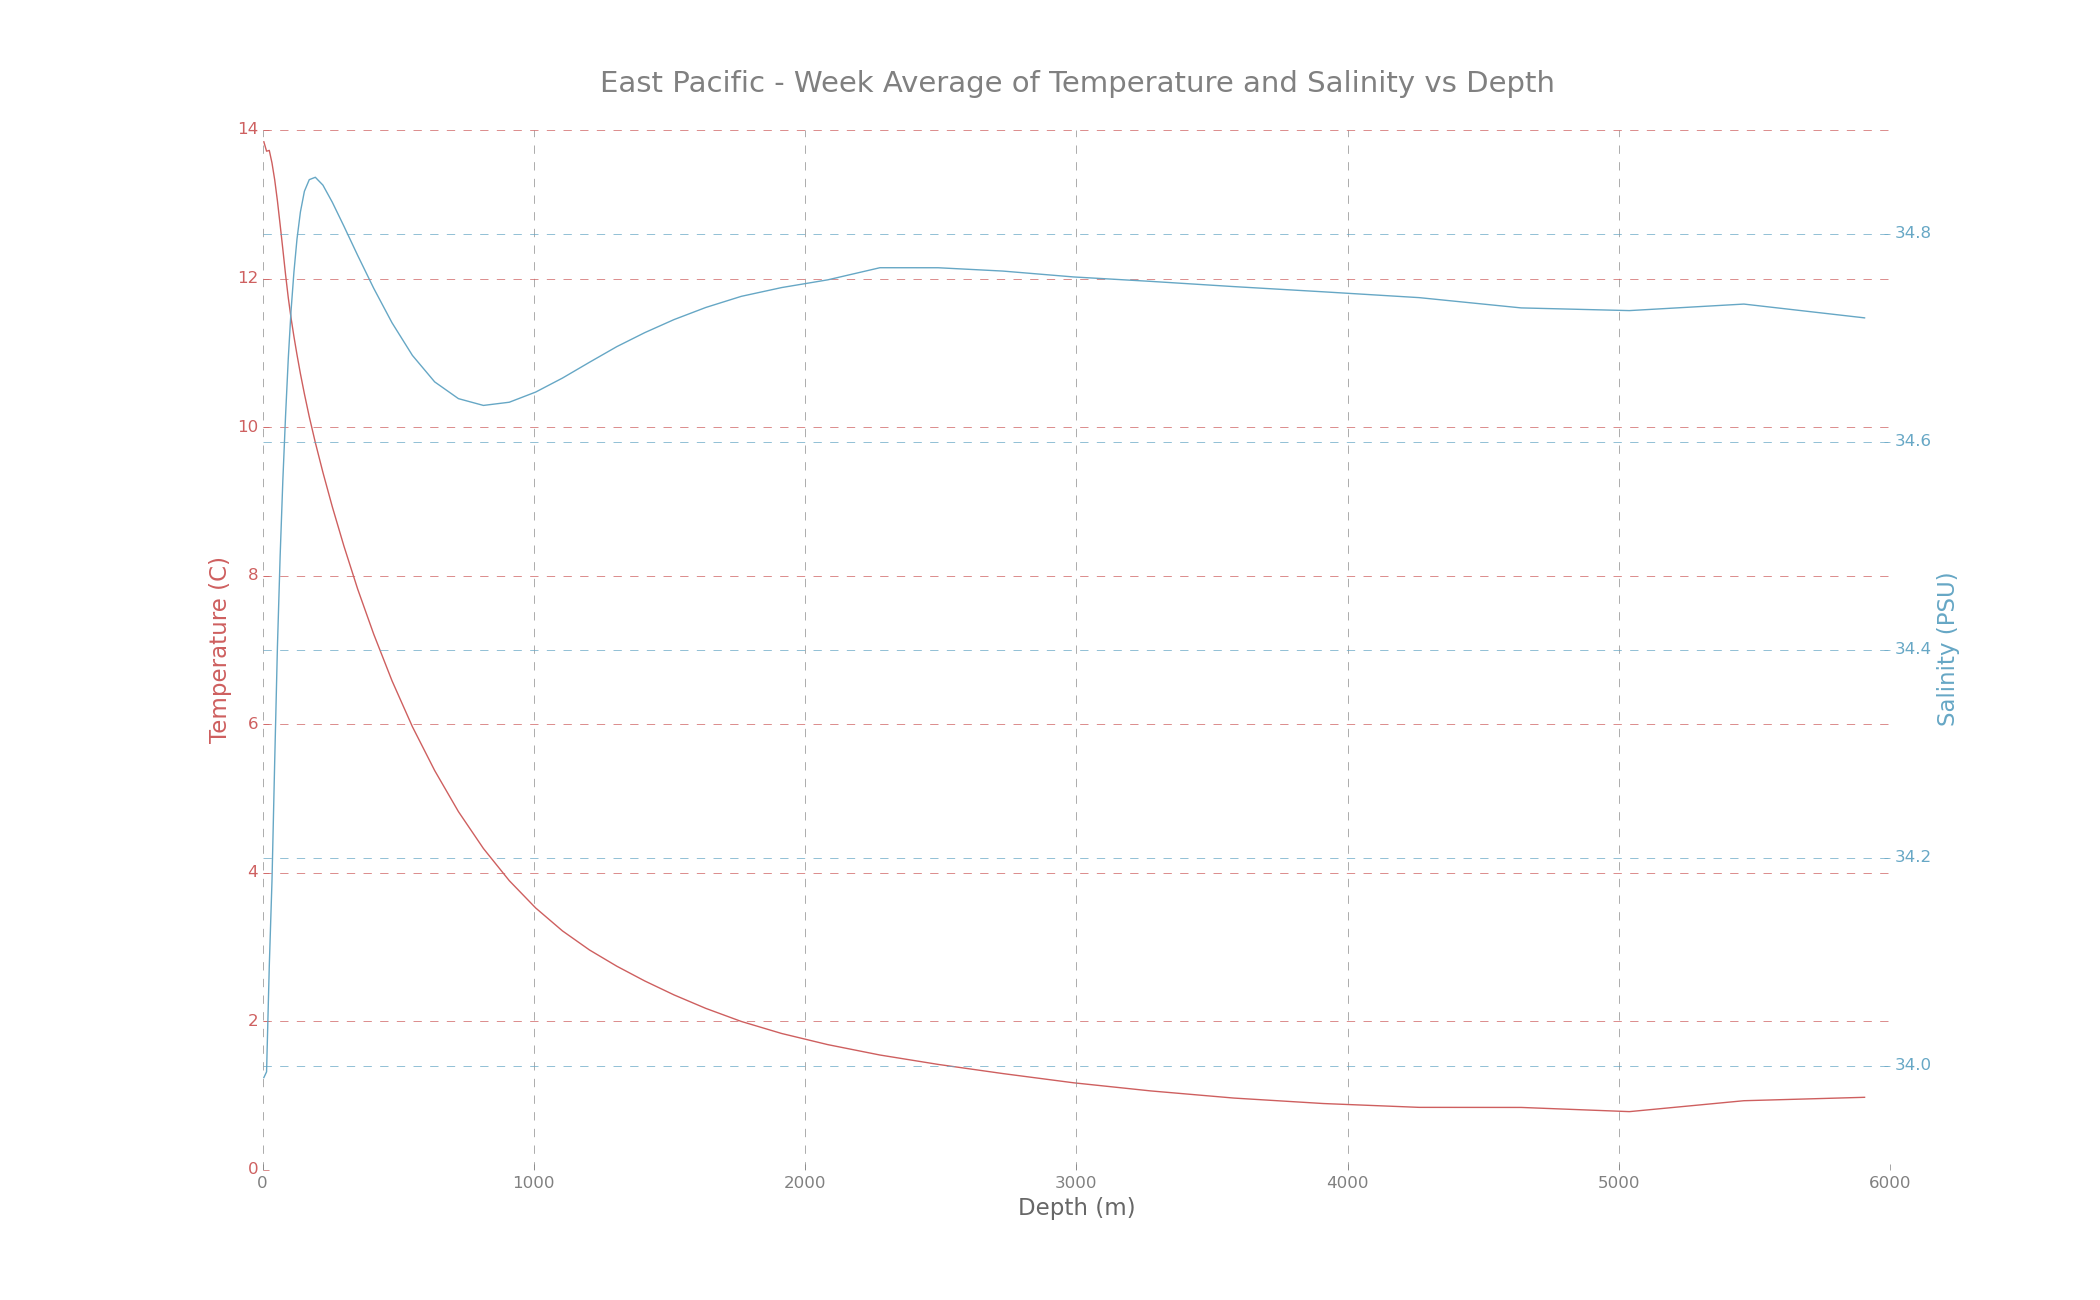
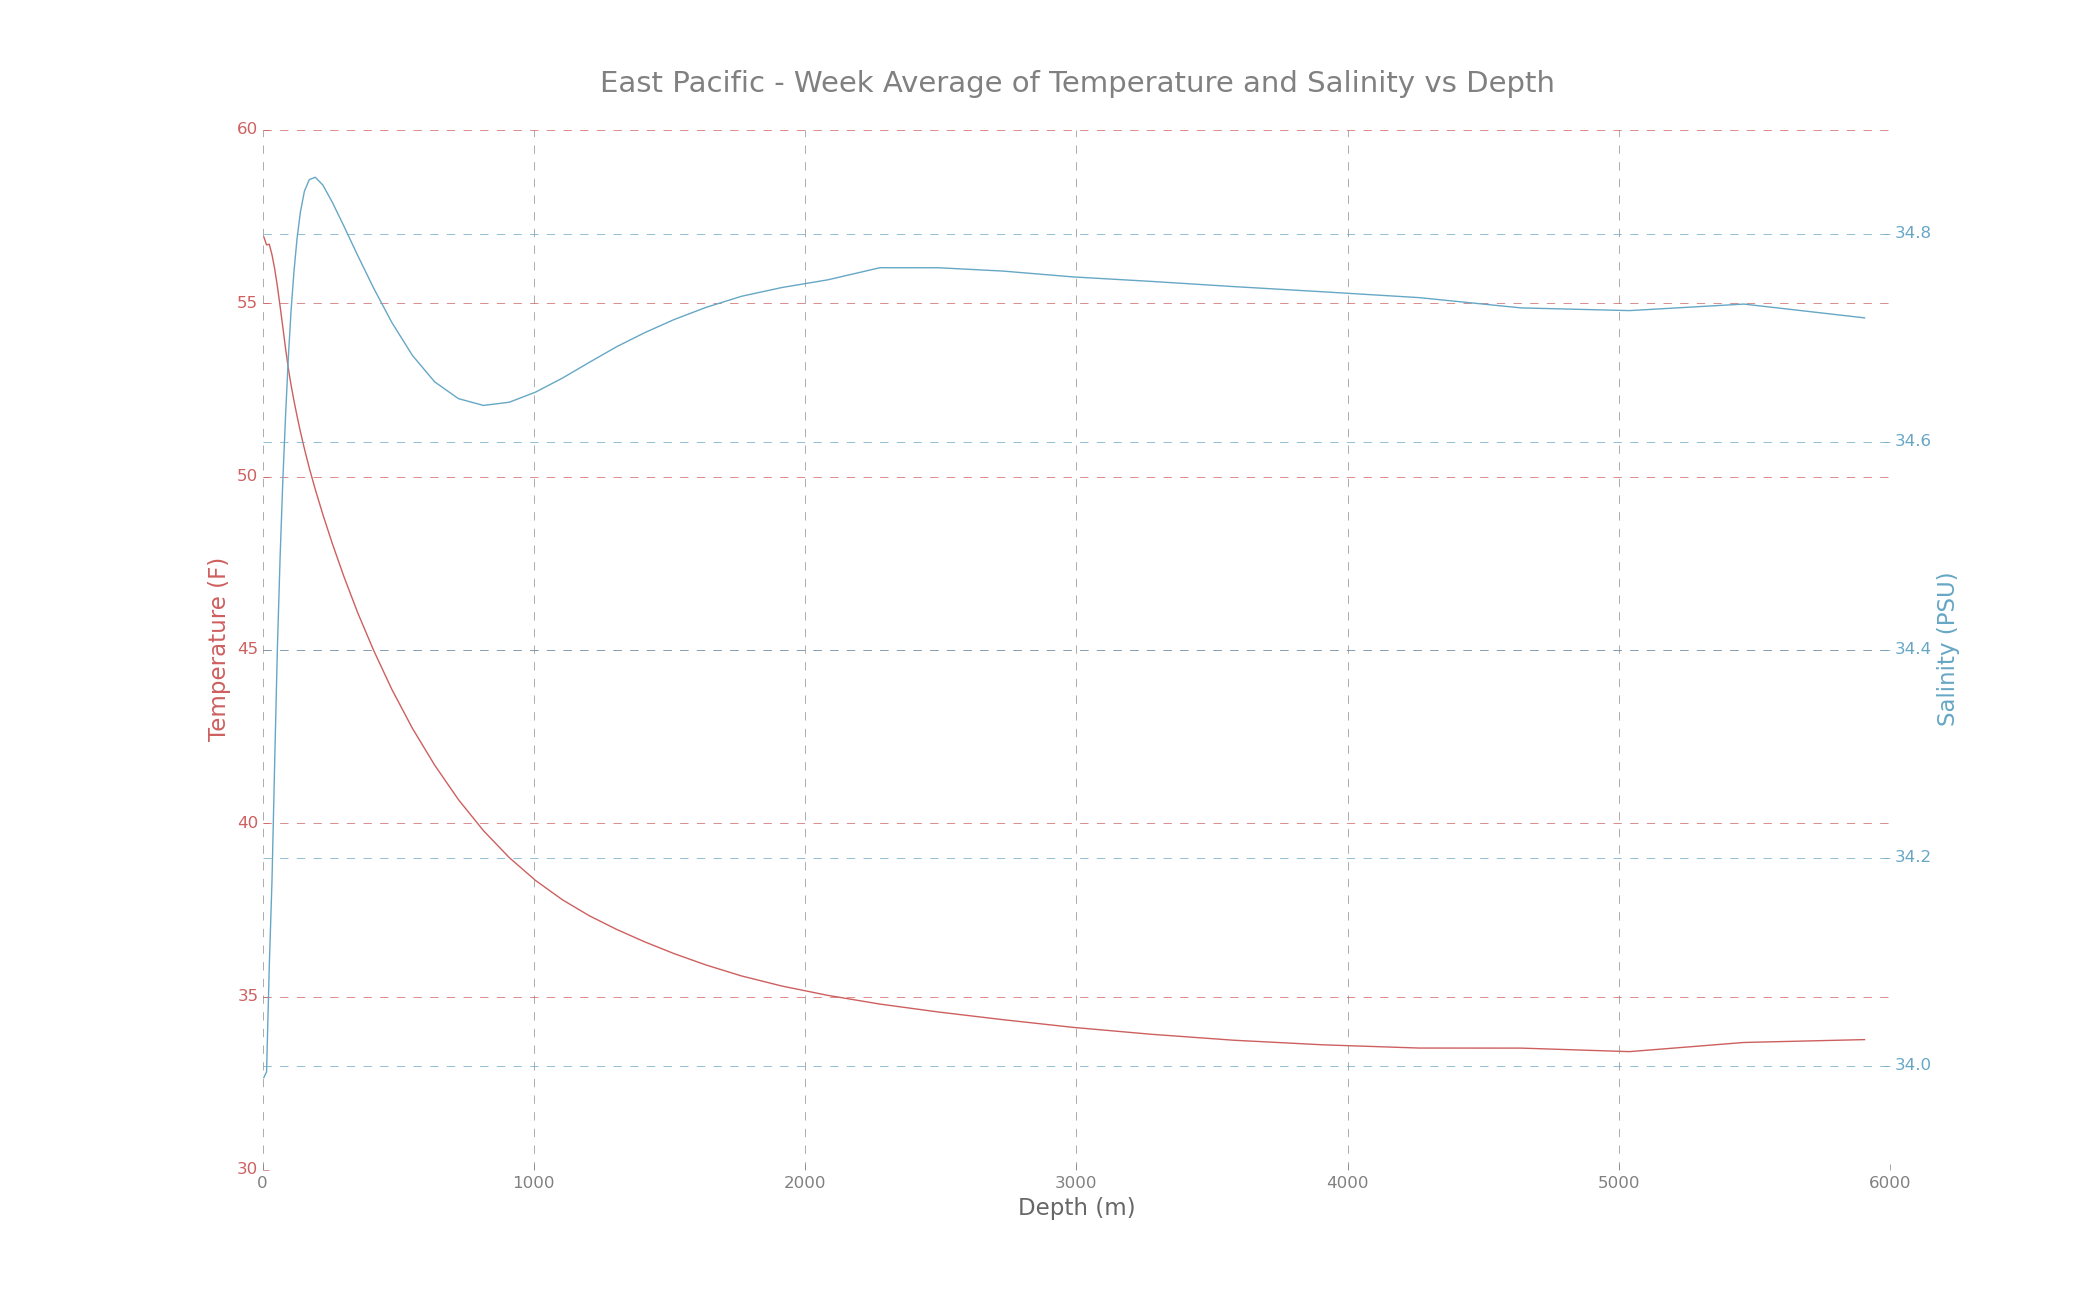
Updated changelog and modified example

Changed region(s): [[0.0929, 0.4308, 0.1238, 0.5846]]

diff --git a/docstrings.py b/docstrings.py
@@ -18,21 +18,31 @@ def wget_fi(base_url, glob_str, user=None, pwd=None, directory=None):
     :param: glob_str (str) - the naming pattern of the files
     :param: user (str) - username
     :param: pwd (str) - password
-    :param: dir (str) - name of directory for files to be saved
+    :param: directory (str) - name of directory for files to be saved
     """
 
 
-def concat_nc(glob_str, output_fi, append_rec_dim=None):
+def ncdump(glob_str, directory='./'):
+    """
+    Wrapper of ncdump; prints out netCDF metadata.
+
+    :param: glob_str (str) - the naming pattern of the files
+    :param: directory (str) - directory of file
+    """
+
+
+def concat_nc(glob_str, output_fi, directory='./', rec_dim=None):
     """
     Wrapper of NCO's ncrcat and optional ncks; concatenates a list of netCDF
     files given a glob_str (i.e. 'THETA.1440x720x50.2010*.nc') and outputs
     concatenated file as the given output_fi. If there's an error complaining
     that there's no record dimension, can give the dimension name to
-    concatenate across under append_rec_dim.
+    concatenate across under rec_dim.
 
     :param: glob_str (str) - the naming pattern of the files
     :param: output_fi (str) - name of concatenated file
-    :param: append_rec_dim (str) - name of dimension to act as record dimension
+    :param: directory (str) - directory of both input and output files
+    :param: rec_dim (str) - name of dimension to act as record dimension
     """
 
 ##############################################################################
@@ -40,30 +50,13 @@ def concat_nc(glob_str, output_fi, append_rec_dim=None):
 ##############################################################################
 
 def ahh(variable,
-        name=None,
-        bare=True,
-        full=False,
-        head=False,
-        tail=False,
-        output_len=8,
-        unnest=False,
-        unnest_row_len=2,
-        unnest_col_len=5,
-        locate_valid=False):
+        name=None):
     """
-    Explores a variable summary to screen; includes values, type, and shape.
+    Explores type, unnested type, length, and shape of a variable.
+    Can optionally include a name to differentiate from other 'ahh's.
 
     :param: variable - variable to be evaluated
     :param: name (boolean) - name of variable
-    :param: bare (boolean) - only print out shape and types
-    :param: full (boolean) - list out every value
-    :param: head (boolean) - list of first values up to output length
-    :param: tail (boolean) - list of last values up to output length
-    :param: output_len (int) - length of print output
-    :param: unnest (boolean) - unnests variable and list out every value
-    :param: unnest_row_len (int) - number of unnested rows
-    :param: unnest_col_len (int) - number of unnested columns
-    :param: locate_valid (boolean) - locates the first valid value to start
     """
 
 
@@ -129,18 +122,6 @@ def read_nc(file_path,
     """
 
 
-def locate_valid_start(variable, num_rows, num_cols):
-    """
-    Finds the first row and column that isn't zero or masked.
-
-    :param: variable - variable to be evaluated
-    :param: rows (int) - number of rows of variable
-    :param: cols (int) - number of columns of variable
-    :return: start_row, start_col (int, int) -
-             first row/col that isn't zero or masked
-    """
-
-
 def create_dt_arr(time_var, calendar='standard'):
     """
     Creates a datetime array based on an unopened time variable.
@@ -196,17 +177,6 @@ def convert(variable,
             mps2mph=True,
             reverse=True
             ):
-
-def get_atavg(data, time_idc, lats_idc, lons_idc):
-    """
-    Finds the average over a given area and time
-
-    :param: data (np.array) - array of data to be averaged
-    :param: time_idc (np.array) - array of time indices
-    :param: lats_idc (np.array) - array of latitude indices
-    :param: lons_idc (np.array) - array of longitude indices
-    :return: spatial_time_avg (float) - average over time and area
-    """
 
 
 def get_norm_anom(data_avg):

diff --git a/examples/example.py b/examples/example.py
@@ -121,27 +121,32 @@ ep_tavg_salt = np.ma.average(lat_tavg_salt, axis=1)
 ext.ahh(ep_tavg_theta, name='ep_tavg_theta')
 ext.ahh(ep_tavg_salt, name='ep_tavg_salt')
 
+""" Convert Celsius to Fahrenheit for Americans """
+
+ep_tavg_theta_f = sci.convert(ep_tavg_theta, c2f=True)
+print(ep_tavg_theta, ep_tavg_theta_f)
+
 """ Two methods of plotting: same axes or subplots """
 
-vis.plot(depth, ep_tavg_theta, 
+vis.plot(depth, ep_tavg_theta_f, 
             y2=ep_tavg_salt,
             sharex=True,
             extray=True,
             title='East Pacific - Week Average of Temperature and Salinity vs Depth',
             xlabel='Depth (m)',
-            ylabel='Temperature (C)',
+            ylabel='Temperature (F)',
             ylabel2='Salinity (PSU)',
             xlim_high=2000,
             xlim_low=0,
             save='example_plot_same_axes.png')
 
-vis.plot(depth, ep_tavg_theta, 
+vis.plot(depth, ep_tavg_theta_f, 
             y2=ep_tavg_salt,
             subplots=2,
             sharex=True,
             title='East Pacific - Week Average of Temperature and Salinity vs Depth',
             xlabel='Depth (m)',
-            ylabel='Temperature (C)',
+            ylabel='Temperature (F)',
             ylabel2='Salinity (PSU)',
             xlim_high=2000,
             xlim_low=0,

diff --git a/ahh/pre.py b/ahh/pre.py
@@ -67,8 +67,8 @@ def concat_nc(glob_str, output_fi, directory='./', rec_dim=None):
 
     if rec_dim is not None:
         if os.path.isfile('{}_rd'.format(fi_name)):
-            print('{fi_name}_rd already exists! Not remaking {fi_name}_rd.' \
-                .format(fi_name=fi_name))
+            print('{fi_name}_rd already exists! Not remaking {fi_name}_rd.'
+                  .format(fi_name=fi_name))
         else:
             rec_append_cmd = \
                 'ncks -O --mk_rec_dmn {rec_dim} {fi_name} {fi_name}_rd' \

diff --git a/ahh/sci.py b/ahh/sci.py
@@ -116,12 +116,12 @@ def get_rmse(obs, fcst, idc):
 
 
 def convert(variable,
-            mm2in=True,
-            c2f=True,
-            c2k=True,
-            f2k=True,
-            mps2mph=True,
-            reverse=True
+            mm2in=False,
+            c2f=False,
+            c2k=False,
+            f2k=False,
+            mps2mph=False,
+            reverse=False
             ):
     """
     Converts the variable from one unit to another.

diff --git a/setup.py b/setup.py
@@ -4,9 +4,9 @@ __author__ = 'huang.andrew12@gmail.com'
 __copyright__ = 'Andrew Huang'
 
 setup(name='ahh',
-      version='0.0.4',
+      version='0.0.5',
       packages=['ahh'],
       install_requires=[
-      'numpy==1.8.0',
-      'matplotlib==1.3.1'],
+                       'numpy==1.8.0',
+                       'matplotlib==1.3.1'],
       )

diff --git a/examples/basic_example.py b/examples/basic_example.py
@@ -1,0 +1,5 @@
+from ahh import vis
+
+x = [1, 2, 3, 4]
+y = [5, 6, 7, 8]
+vis.plot(x, y, show=True)

diff --git a/README.md b/README.md
@@ -3,6 +3,7 @@ Found a bug? Contact me at huang dot andrew12 at gmail dot com!
 
 Functions that I can easily reference, and maybe you too!
 Docstrings here: https://github.com/ahuang11/ahh/blob/master/docstrings.py
+In-depth example here: https://github.com/ahuang11/ahh/blob/master/examples/example.py
 
 DISCLAIMER: This repo is still in its infancy; I tried to debug as best I could
 within a couple days, but may still return  errors or do something unwanted.
@@ -14,7 +15,7 @@ Basically don't hold me accountable if something goes wrong; go read the license
     - Type "pip install -e ." (may need to be in bash first!)
     - In a Python script, type "from ahh import vis, sci, ext"
 
-### example.py - example usage:
+### example/basic_example.py - basic example usage:
     from ahh import vis
     x = [1, 2, 3, 4]
     y = [5, 6, 7, 8]
@@ -22,14 +23,14 @@ Basically don't hold me accountable if something goes wrong; go read the license
 
 ## CONTAINS:
 
-### pre.py - pre-analysis fucnctions:
+### ahh/pre.py - pre-analysis fucnctions:
     - wget_fi: downloads multiple files with a common pattern name
         - option to put in username and password
         - option to select directory for files to be downloaded in
     - concat_nc: combines multiple netCDF4 files with a common pattern name
         - capability to append/reference record dimension properly
 
-### sci.py - science functions:
+### ahh/sci.py - science functions:
     - get_uac: get the uncentered anomaly correlation of grid
     - get_cac: get the centered anomaly correlation of grid
     - get_rmse: get root mean square error of grid
@@ -40,23 +41,16 @@ Basically don't hold me accountable if something goes wrong; go read the license
         - Fahrenheit to Kelvin
         - meters per second to miles per hour
         - All that in reverse
-    - get_atavg: get the areal and time average
     - get_norm_anom: get the normalized anomaly of array
 
-### ext.py - extra functions:
+### ahh/ext.py - extra functions:
     - ahh: prints out a variable summary
-        - prints out type of variable, length, shape
-        - prints out type of unnested, unnested of unnested, and valid value
+        - prints type, unnested type, length, and shape of a variable.
         - option to title the print output
-        - option to print out the head/tail of variable up to length
-        - control the length of output/how many values get printed out
-        - supports unnesting arrays
-        - control the rows and columns unnested
     - lon360: converts west longitudes to east longitudes
     - get_idc: get the indices for bounding latitudes and longitudes
     - read_nc: read netCDF4 file
         - grabs the opened dataset, time, latitude, and longitude arrays
-    - locate_valid_start: finds the first row and column that isn't zero or masked
 
 ### vis.py - visualization functions:
     - plot: effortlessly make beautiful plots
@@ -70,6 +64,15 @@ Basically don't hold me accountable if something goes wrong; go read the license
     - prettify_plot: effortlessly make your own plot pretty
 
 ## CHANGELOG:
+### - v0.0.5
+    - In-depth example usage is now available!
+    - Completely revamped ext.ahh()
+    - Fixed sci.convert()
+    - Latitude and longitude optional in ext.read_nc
+    - New pre.ncdump() which dumps netCDF4 metadata
+    - pre.concat_nc() now supports other directories
+    - Removed sci.get_atavg and ext.locate_valid_start
+    - Aesthetic improvements and more error messages
 ### - v0.0.4
     - Added ext.lon360() which converts west longitudes to east
     - Added "maxmin" and "w2e" inputs to ext.get_idc()
@@ -99,15 +102,11 @@ Basically don't hold me accountable if something goes wrong; go read the license
 
 ## TO-DO / UPCOMING:
 - Exception handling and display!
-- Some in-depth usage examples!
 - More conversions!
 - More scientific/statistical functions!
 - Add scalability in vis.plot()
 - Put more work into vis.global_map()
-- Implement ability for ext.ahh() to read csv.
 - Fix the known issues listed below!
 
 ## KNOWN ISSUES:
 - vis.plot() "minor" input is useable, but returns inconsistent font and color.
-- ext.ahh() "unnest" still needs major improvement.
-- ext.locate_valid_start() needs major revamp.
